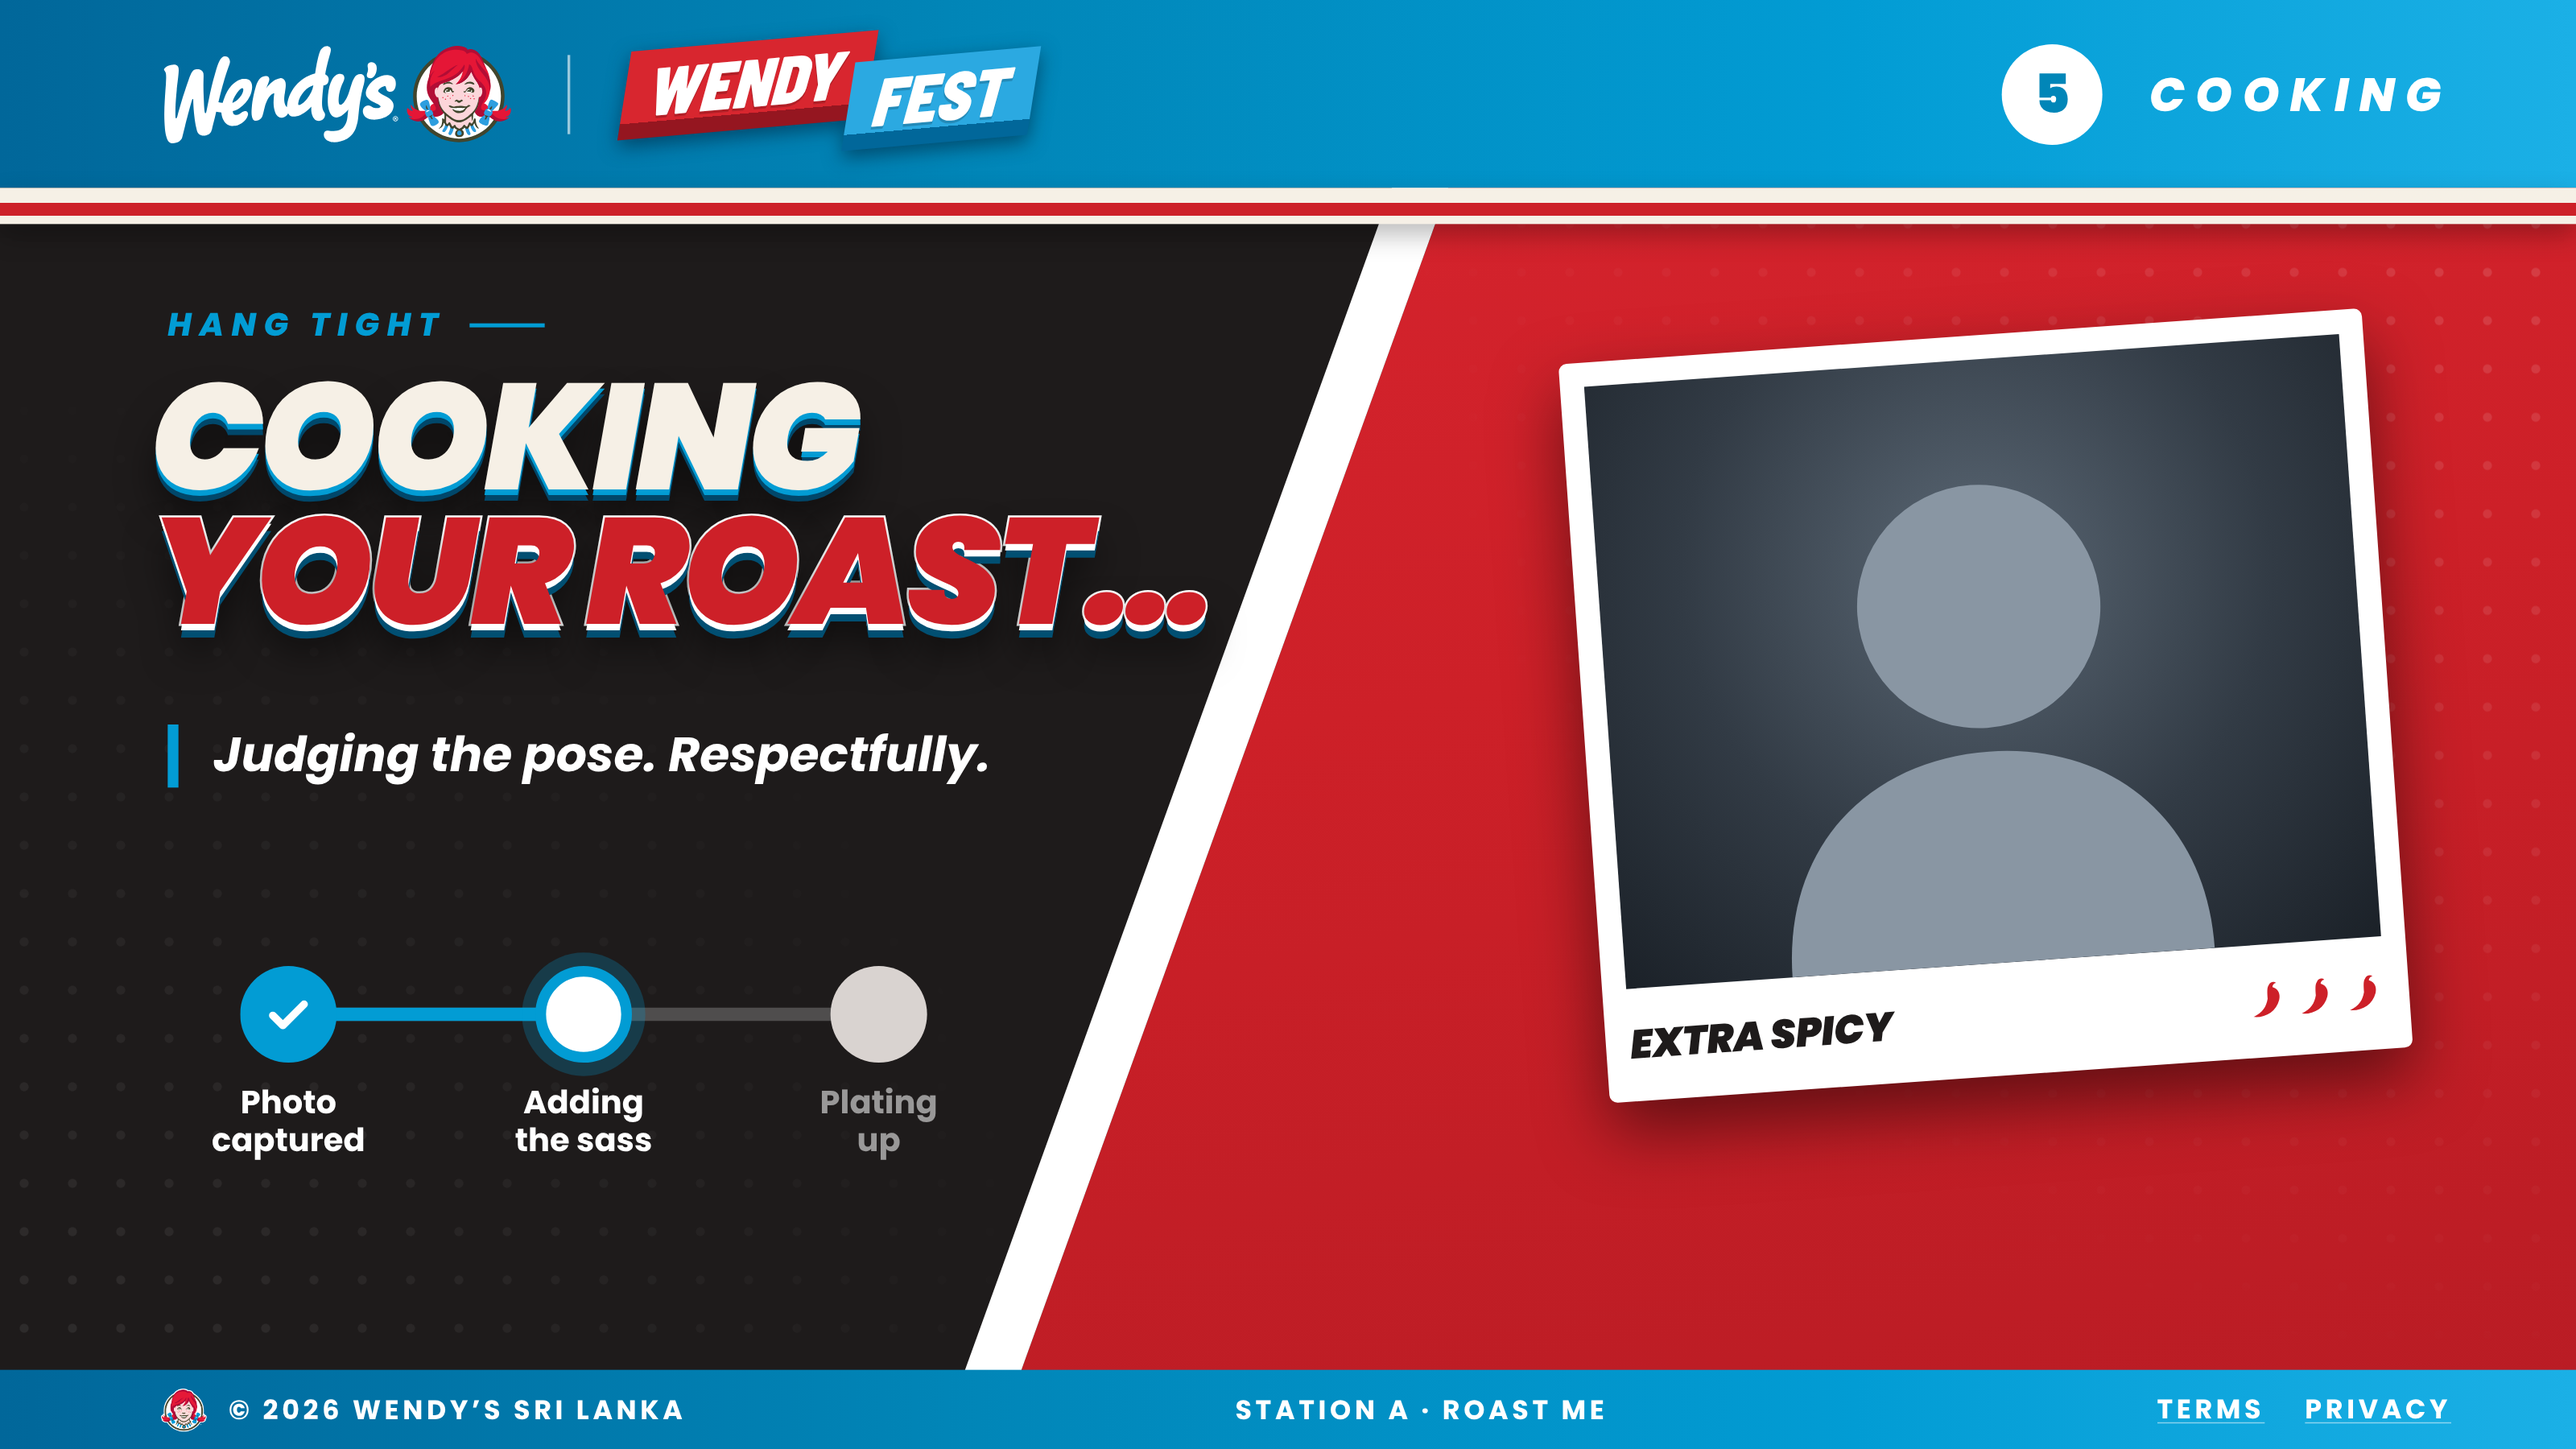
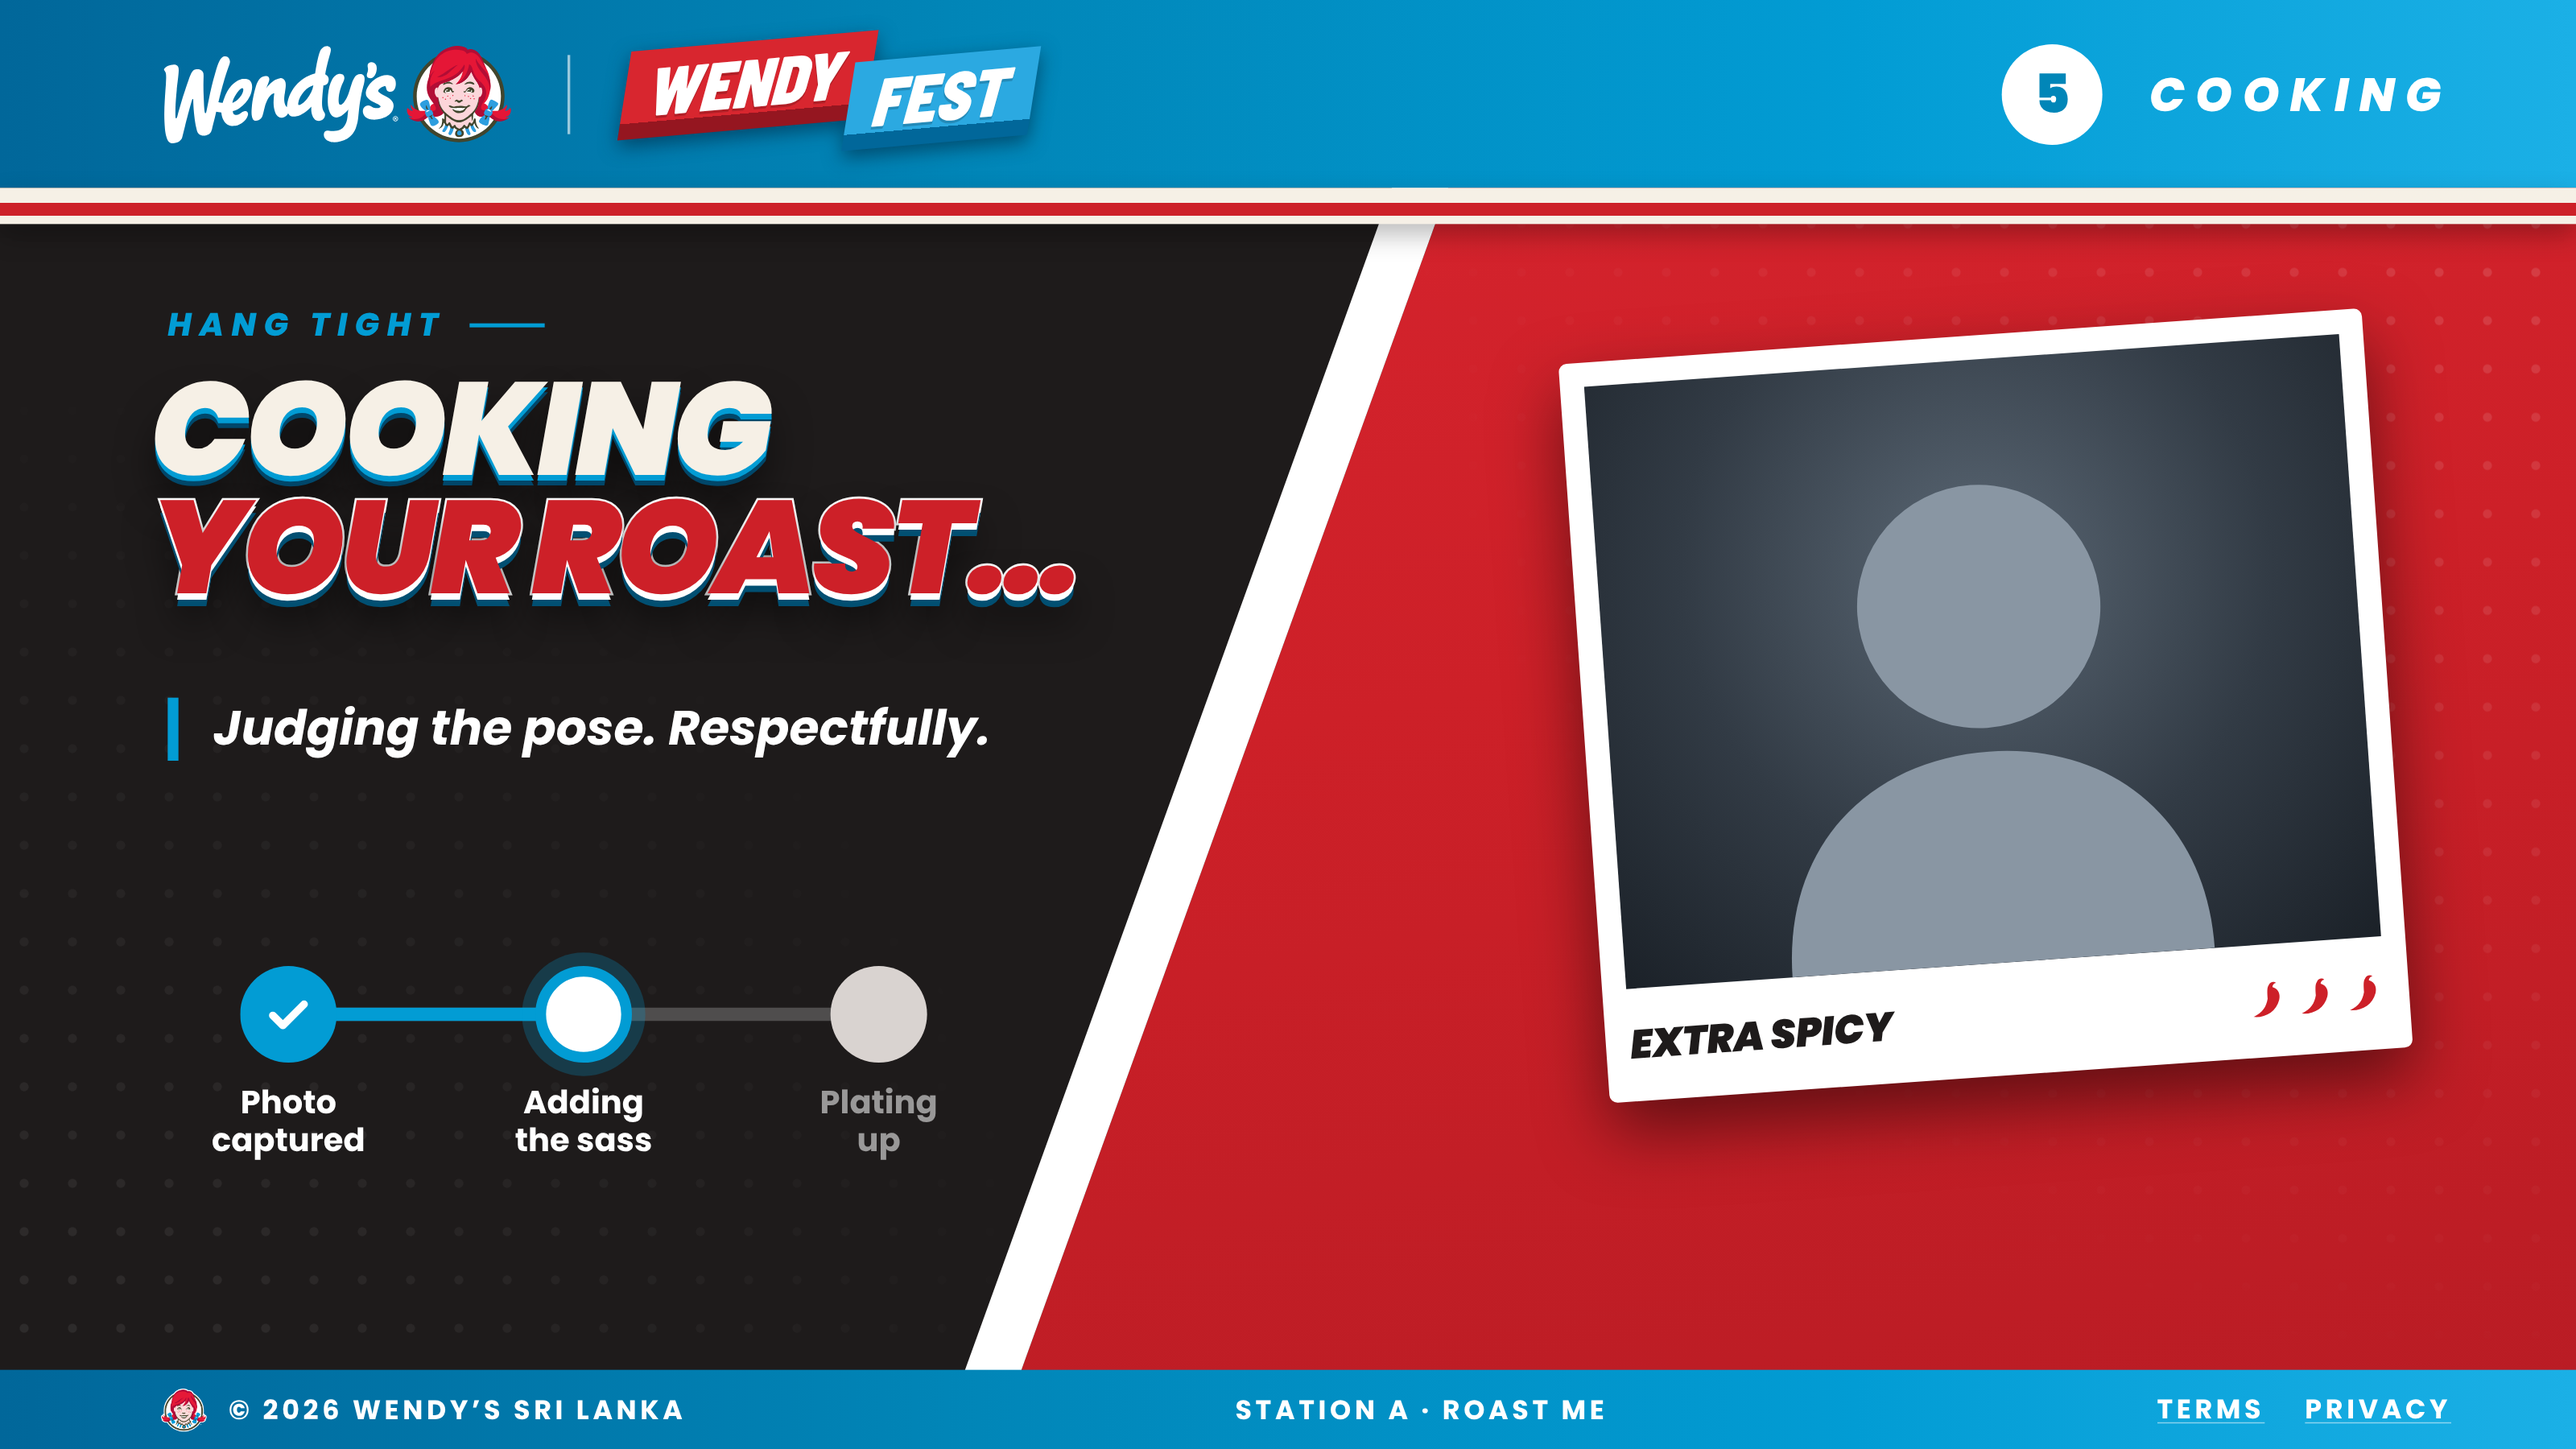
Design: cooking mockups, fix polaroid and title fit
Claude-Session: https://claude.ai/code/session_015VvgGcy4E4iC8yPYa1MD8t

Changed region(s): [[0.0625, 0.2489, 0.4688, 0.56]]

diff --git a/public/_design/cooking-options.html b/public/_design/cooking-options.html
@@ -42,7 +42,7 @@ body.one { overflow:hidden; } body.one .board { padding:0; display:block; } body
 .feed { background:radial-gradient(ellipse at 50% 35%, #5B6875 0%, #323B45 55%, #1B2128 100%); overflow:hidden; position:relative; } .feed svg { position:absolute; left:50%; bottom:0; height:92%; transform:translateX(-50%); }
 .pol { background:#fff; padding:18px 18px 0; border-radius:6px; box-shadow:0 22px 50px rgba(0,0,0,.5); box-sizing:border-box; z-index:6; }
 .pol .cap { height:84px; display:flex; align-items:center; justify-content:space-between; color:#1E1B1B; font:italic 900 30px/1 Poppins; text-transform:uppercase; letter-spacing:-.01em; } .pol .cap span { display:flex; gap:2px; } .pol .cap svg { width:34px; height:34px; fill:#CD2028; }
-.pol.s .cap { height:60px; font-size:21px; } .pol.s .cap svg { width:24px; height:24px; }
+.pol.sm .cap { height:60px; font-size:21px; } .pol.sm .cap svg { width:24px; height:24px; }
 .line { font:italic 700 36px/1.3 Poppins; } .line.bar { padding-left:26px; border-left:8px solid #029CD4; }
 .ubar { width:200px; height:12px; background:#029CD4; }
 /* step tracker (today's, tidied) */
@@ -73,8 +73,8 @@ const chrome = (k) => `<div class="dots"></div>${k === "art" ? '<div class="pane
 const OPTS = {
   a: { title: "A · Tidy", k: "std", note: "Today’s content on the standard layout. Title, the rotating line and the three-step tracker sit on the charcoal side; the guest’s photo becomes a tilted polaroid on the red side, captioned with the heat they picked.",
     html: `<div class="eb" style="left:125px;top:230px">Hang tight</div>
-      <div class="t3" style="left:112px;top:280px;font-size:112px"><span class="l1">Cooking</span><span class="l2">your roast…</span></div>
-      <div class="line bar" style="left:125px;top:540px;width:640px">Judging the pose. Respectfully.</div>
+      <div class="t3" style="left:112px;top:280px;font-size:98px"><span class="l1">Cooking</span><span class="l2">your roast…</span></div>
+      <div class="line bar" style="left:125px;top:520px;width:640px">Judging the pose. Respectfully.</div>
       <div class="trk3" style="left:105px;top:720px;width:660px"><u></u><div class="done"><i></i><b>Photo<br>captured</b></div><div class="on"><i></i><b>Adding<br>the sass</b></div><div><i></i><b>Plating<br>up</b></div></div>
       ${pol(600, 450, "", "left:1180px;top:250px;rotate:-4deg")}` },
   b: { title: "B · Heat bar", k: "nar", note: "Keeps today’s layout (photo left, narrow red edge) but swaps the three dots for one big striped bar that fills up, with a large percentage. Easier to read from the back of a queue.",
@@ -89,7 +89,7 @@ const OPTS = {
     html: `<div class="eb" style="left:125px;top:230px">Hang tight</div>
       <div class="t3" style="left:112px;top:280px;font-size:104px"><span class="l1">Cooking</span><span class="l2">your roast…</span></div>
       <div class="chk" style="left:125px;top:560px"><div class="done"><i></i><b>Photo captured</b></div><div class="on"><i></i><b>Adding the sass</b></div><div><i></i><b>Plating up</b></div></div>
-      ${pol(300, 225, "s", "left:600px;top:600px;rotate:6deg")}
+      ${pol(300, 225, "sm", "left:600px;top:600px;rotate:6deg")}
       <div class="bub" style="left:1130px;top:206px"><small>Wendy says</small>Judging the pose. Respectfully.</div>` },
 };
 const v = new URLSearchParams(location.search).get("v");
